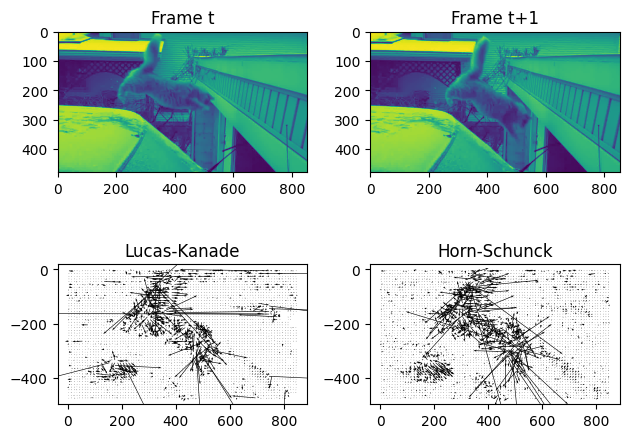
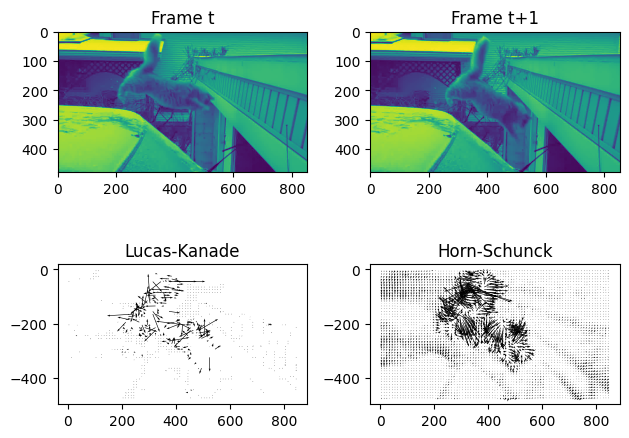
added similarity measure and convergence

Changed region(s): [[0.0906, 0.5936, 0.4833, 0.9201], [0.6041, 0.5936, 0.9666, 0.9201]]

diff --git a/main.py b/main.py
@@ -1,13 +1,19 @@
 import numpy as np
 import cv2 as cv2
 import matplotlib.pyplot as plt
+import datetime
 
 from ex1_utils import rotate_image, show_flow
 from of_methods import lucas_kanade, horn_schunck
 
 
-def compute_of(img1, img2, pltTitle):
+def compute_of(img1, img2, pltTitle, normalizeImages=True):
+
     U_lk, V_lk = lucas_kanade(img1, img2, 10)
+
+    if normalizeImages:
+        img1 = img1 / 255.0
+        img2 = img2 / 255.0
 
     fig1, ((ax1, ax2), (ax3, ax4)) = plt.subplots(2, 2)
     ax1.imshow(img1)
@@ -19,7 +25,7 @@ def compute_of(img1, img2, pltTitle):
     show_flow(U_lk, V_lk, ax3, type="field", set_aspect=True)
     # fig1.suptitle("Lucas-Kanade Optical Flow")
 
-    U_hs, V_hs = horn_schunck(img1, img2, 500, 0.5)
+    U_hs, V_hs = horn_schunck(img1, img2, 100000, 0.5)
 
     # fig2, ((ax2_11, ax2_12), (ax2_21, ax2_22)) = plt.subplots(2, 2)
     ax4.title.set_text('Horn-Schunck')
@@ -30,6 +36,80 @@ def compute_of(img1, img2, pltTitle):
     plt.tight_layout()
     plt.savefig(pltTitle, bbox_inches='tight')
     plt.show()
+
+
+def lk_parameter_comparison(img1, img2):
+    U_lk1, V_lk1 = lucas_kanade(img1, img2, 3)
+    U_lk2, V_lk2 = lucas_kanade(img1, img2, 10)
+    U_lk3, V_lk3 = lucas_kanade(img1, img2, 15)
+
+    fig1, (ax1, ax2, ax3) = plt.subplots(1, 3, figsize=(8, 3))
+    ax1.title.set_text('Kernel size = 3x3')
+    ax2.title.set_text('Kernel size = 10x10')
+    ax3.title.set_text('Kernel size = 15x15')
+
+    show_flow(U_lk1, V_lk1, ax1, type="field", set_aspect=True)
+    show_flow(U_lk2, V_lk2, ax2, type="field", set_aspect=True)
+    show_flow(U_lk3, V_lk3, ax3, type="field", set_aspect=True)
+
+    plt.tight_layout()
+    plt.savefig('data/lkparameters.png', bbox_inches='tight')
+    plt.show()
+
+
+def hs_parameter_comparison(img1, img2):
+    img1 = img1 / 255.0
+    img2 = img2 / 255.0
+
+    U_hs1, V_hs1 = horn_schunck(img1, img2, 50, 0.5)
+    U_hs2, V_hs2 = horn_schunck(img1, img2, 150, 0.5)
+    U_hs3, V_hs3 = horn_schunck(img1, img2, 1000, 0.5)
+
+    U_hs4, V_hs4 = horn_schunck(img1, img2, 300, 0.1)
+    U_hs5, V_hs5 = horn_schunck(img1, img2, 300, 1)
+    U_hs6, V_hs6 = horn_schunck(img1, img2, 300, 3)
+
+    fig1, ((ax1, ax2, ax3), (ax4, ax5, ax6)) = plt.subplots(2, 3, figsize=(12, 7))
+
+    ax1.title.set_text('50 iterations, alpha = 0.5')
+    ax2.title.set_text('150 iterations, alpha = 0.5')
+    ax3.title.set_text('1000 iterations, alpha = 0.5')
+    ax4.title.set_text('Alpha = 0.1, iter = 300')
+    ax5.title.set_text('Alpha = 1, iter = 300')
+    ax6.title.set_text('Alpha = 3, iter = 300')
+
+    show_flow(U_hs1, V_hs1, ax1, type="field", set_aspect=True)
+    show_flow(U_hs2, V_hs2, ax2, type="field", set_aspect=True)
+    show_flow(U_hs3, V_hs3, ax3, type="field", set_aspect=True)
+    show_flow(U_hs4, V_hs4, ax4, type="field", set_aspect=True)
+    show_flow(U_hs5, V_hs5, ax5, type="field", set_aspect=True)
+    show_flow(U_hs6, V_hs6, ax6, type="field", set_aspect=True)
+
+    plt.tight_layout()
+    plt.savefig('data/hsparameters.png', bbox_inches='tight')
+    plt.show()
+
+
+def time_comparison(img1, img2):
+
+    lkKernelSizes = [3, 10, 15]
+    hsIterations = [50, 150, 1000]
+
+    for ks in lkKernelSizes:
+        startTime = datetime.datetime.now()
+        lucas_kanade(img1, img2, ks)
+        endTime = datetime.datetime.now()
+        time_diff = (endTime - startTime)
+        execution_time = time_diff.total_seconds() * 1000
+        print("Lucas Kanade", ks, execution_time)
+
+    for hsit in hsIterations:
+        startTime = datetime.datetime.now()
+        horn_schunck(img1, img2, hsit, 0.5)
+        endTime = datetime.datetime.now()
+        time_diff = (endTime - startTime)
+        execution_time = time_diff.total_seconds() * 1000
+        print("Horn Schunck", hsit, execution_time)
 
 
 random1 = np.random.rand(200, 200).astype(np.float32)
@@ -47,8 +127,14 @@ lab2 = cv2.imread('data/008.jpg', cv2.IMREAD_GRAYSCALE).astype(np.float32)
 waffle1fast = cv2.imread('data/waffle1fast.jpg', cv2.IMREAD_GRAYSCALE).astype(np.float32)
 waffle2fast = cv2.imread('data/waffle2fast.jpg', cv2.IMREAD_GRAYSCALE).astype(np.float32)
 
-# compute_of(random1, random2, 'random')
+# compute_of(random1, random2, 'data/random.png', False)
 # compute_of(waffle1, waffle2, 'data/waffle.png')
-# compute_of(col1, col2, 'data/collision.png')
-compute_of(lab1, lab2, 'data/lab.png')
+compute_of(col1, col2, 'data/collision.png')
+# compute_of(lab1, lab2, 'data/lab.png')
 # compute_of(waffle1fast, waffle2fast, 'data/waffleFast.png')
+#
+# lk_parameter_comparison(waffle1, waffle2)
+# hs_parameter_comparison(waffle1, waffle2)
+
+# time_comparison(waffle1, waffle2)
+# time_comparison(lab1, lab2)

diff --git a/of_methods.py b/of_methods.py
@@ -1,27 +1,23 @@
 import numpy as np
 
 from ex1_utils import gaussderiv, convolve, gausssmooth
-
-derivSigma = 1
+from sklearn.metrics.pairwise import cosine_similarity
 
 # ignore if division with zero
 np.seterr(divide='ignore', invalid='ignore')
 
 
-def discetize_derivatives(img1, img2, smoothingSigma):
-    img1 = gausssmooth(img1, smoothingSigma)
-    img2 = gausssmooth(img2, smoothingSigma)
-
+def discetize_derivatives(img1, img2, smoothingSigma, derivSigma):
     Ix1, Iy1 = gaussderiv(img1, derivSigma)
     Ix2, Iy2 = gaussderiv(img2, derivSigma)
     Ix, Iy = np.mean([Ix1, Ix2], axis=0), np.mean([Iy1, Iy2], axis=0)
-    It = gausssmooth(img2 - img1, 1)
+    It = gausssmooth(img2 - img1, smoothingSigma)
 
     return Ix, Iy, It
 
 
 def lucas_kanade(img1, img2, N):
-    Ix, Iy, It = discetize_derivatives(img1, img2, 1)
+    Ix, Iy, It = discetize_derivatives(img1, img2, 1, 0.4)
 
     kernel = np.ones((N, N))
 
@@ -33,15 +29,19 @@ def lucas_kanade(img1, img2, N):
     sum_Ix_It = convolve(np.multiply(Ix, It), kernel)
     sum_Iy_It = convolve(np.multiply(Iy, It), kernel)
 
+    D = np.subtract(
+        np.multiply(sum_Ix_squared, sum_Iy_squared),
+        np.square(sum_Ix_Iy)
+    )
+
+    D[D == 0] = 0.000000001
+
     delta_x = np.divide(
         np.add(
             np.multiply(-sum_Iy_squared, sum_Ix_It),
             np.multiply(sum_Ix_Iy, sum_Iy_It)
         ),
-        np.subtract(
-            np.multiply(sum_Ix_squared, sum_Iy_squared),
-            np.square(sum_Ix_Iy)
-        )
+        D
     )
 
     delta_y = np.divide(
@@ -49,27 +49,41 @@ def lucas_kanade(img1, img2, N):
             np.multiply(sum_Ix_Iy, sum_Ix_It),
             np.multiply(sum_Ix_squared, sum_Iy_It)
         ),
-        np.subtract(
-            np.multiply(sum_Ix_squared, sum_Iy_squared),
-            np.square(sum_Ix_Iy)
-        )
+        D
     )
 
     return delta_x, delta_y
 
 
 def horn_schunck(img1, img2, n_iters, lmbd):
-    Ix, Iy, It = discetize_derivatives(img1, img2, 1)
+    Ix, Iy, It = discetize_derivatives(img1, img2, 1, 1)
 
-    u = np.zeros((Ix.shape[0], Ix.shape[1]))
-    v = np.zeros((Iy.shape[0], Iy.shape[1]))
+    #  speed by lukas kanade
+    u, v = lucas_kanade(img1, img2, 10)
+
+    # u = np.zeros((Ix.shape[0], Ix.shape[1]))
+    # v = np.zeros((Iy.shape[0], Iy.shape[1]))
+
+    u_avg = np.ones((Ix.shape[0], Ix.shape[1]))
+    v_avg = np.ones((Iy.shape[0], Iy.shape[1]))
+
+    u_sim = 0  # similarity between u and u_avg
+    v_sim = 0  # similarity between v and v_avg
 
     kernel = np.array([[0, 0.25, 0], [0.25, 0, 0.25], [0, 0.25, 0]])
 
-    for i in range(n_iters):
+    D = np.square(Ix) + np.square(Iy) + lmbd
+
+    matrixElements = Ix.shape[0] * Ix.shape[1]
+    i = 0
+
+    while i < n_iters and u_sim < 0.6 and v_sim < 0.6:
+
+        u_sim = round(np.sum(cosine_similarity(u, u_avg)) / matrixElements, 4)
+        v_sim = round(np.sum(cosine_similarity(v, v_avg)) / matrixElements, 4)
 
         if i % 100 == 0:
-            print(i)
+            print(i, u_sim, v_sim)
 
         u_avg = convolve(u, kernel)
         v_avg = convolve(v, kernel)
@@ -80,15 +94,13 @@ def horn_schunck(img1, img2, n_iters, lmbd):
                 np.multiply(Ix, u_avg),
                 np.multiply(Iy, v_avg)
             ]),
-            sum([
-                np.square(Ix),
-                np.square(Iy),
-                lmbd
-            ])
+            D
         )
 
         u = np.subtract(u_avg, np.multiply(Ix, P))
         v = np.subtract(v_avg, np.multiply(Iy, P))
+
+        i = i + 1
 
     return u, v
 
